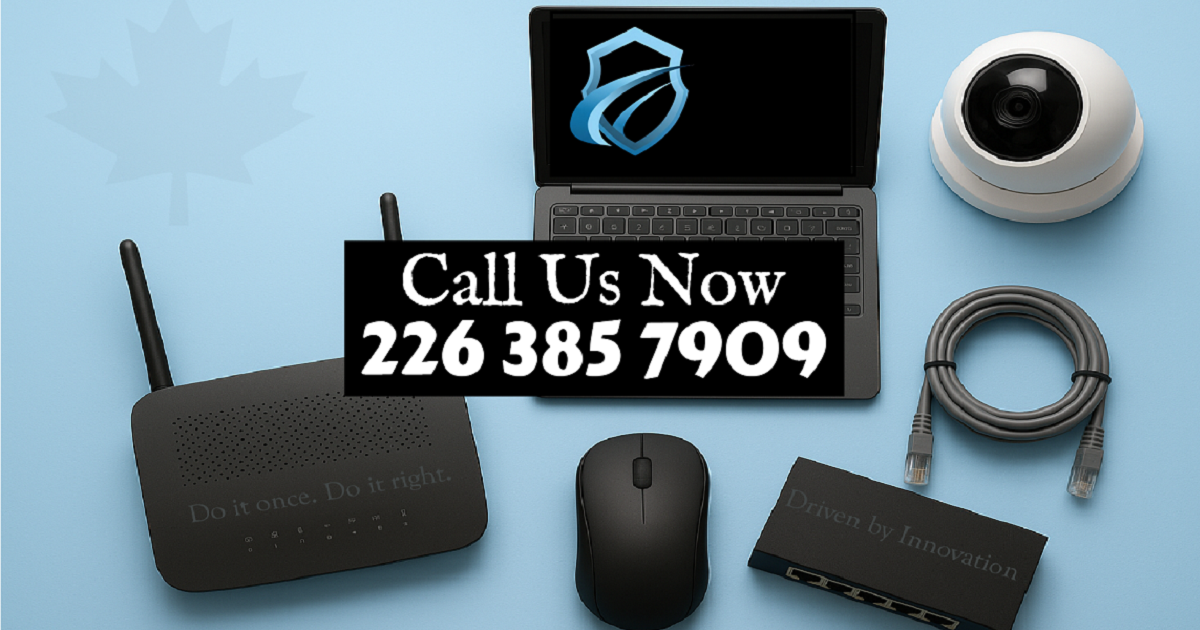
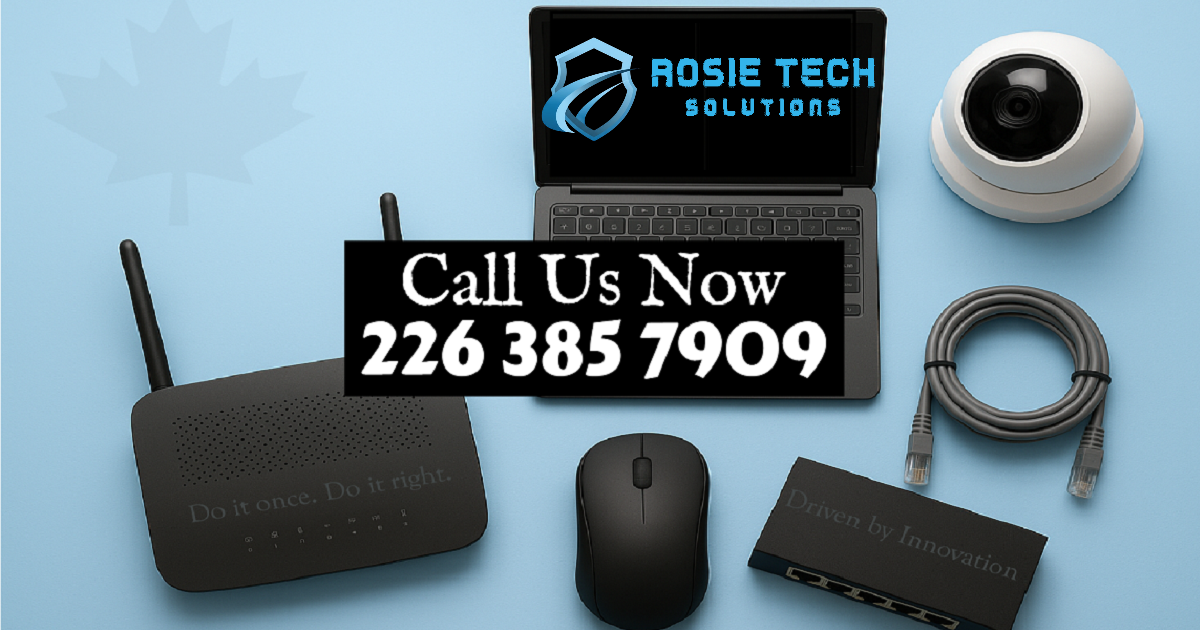
h

Changed region(s): [[0.4317, 0.0302, 0.74, 0.2413]]

diff --git a/index.html b/index.html
@@ -13,6 +13,8 @@
 <title>Security Camera & Network Installation | Rosie Tech Solutions</title>
 <meta name="description" content="Professional CCTV, security camera, and Ethernet installation for homes and businesses across Southwestern Ontario — including London, Windsor, Chatham-Kent, and more." />
 <link rel="canonical" href="https://rosietechsolutions.ca/" />
+<link rel="image_src" href="https://rosietechsolutions.ca/img/BrandingSocial.png" />
+<meta itemprop="image" content="https://rosietechsolutions.ca/img/BrandingSocial.png" />
 
 <!-- ✅ Open Graph -->
 <meta property="og:locale" content="en_CA" />
